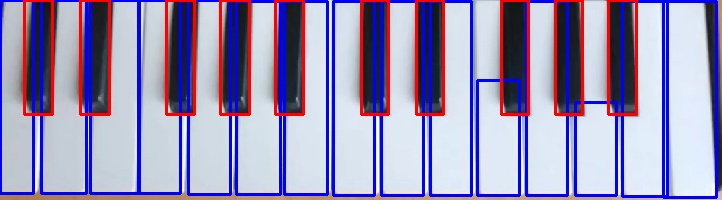
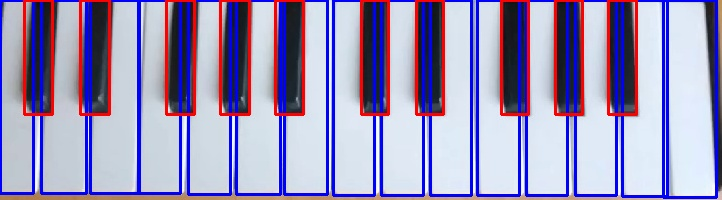
working?

Changed region(s): [[0.3047, 0.0, 1.0, 0.54]]

diff --git a/src/hand_tracking.py b/src/hand_tracking.py
@@ -57,32 +57,50 @@ class HandTrack:
                                     new_image[row-i[0]].append(img[col][row])
 
                             new_image = np.array(new_image)
-                            gray_image1 = cv2.cvtColor(black_imgs[index], cv2.COLOR_BGR2GRAY)
-                            gray_image2 = cv2.cvtColor(new_image, cv2.COLOR_BGR2GRAY)
-                            ssim,ssimImg = structural_similarity(gray_image1,gray_image2, full=True)
-                            print(ssim)
-                            cv2.imshow('ssim',ssimImg)
-                            cv2.waitKey(0)
+                            y = finger[1]-i[1]
+                            new_image = new_image[:,:y]
+                            new_image = new_image[:,:y]
+                            new_key_img = black_imgs[index][:,:y]
+                            gray_image1 = cv2.cvtColor(new_image, cv2.COLOR_BGR2GRAY)
+                            gray_image2 = cv2.cvtColor(new_key_img, cv2.COLOR_BGR2GRAY)
+                            x1,y1 = gray_image1.shape
+                            x2,y2 = gray_image2.shape
+                            ssim = None
+                            if x1 >= 7 and x2 >= 7 and y1 >=7 and y2 >=7:
+                                ssim,_ = structural_similarity(gray_image1,gray_image2, full=True)
+                                key.append(('b',i))
+                            #print(f"black key number {index}: {ssim}")
                         index +=1
-                    # index = 0
-                    # for i in white_keys:
-                    #     if ( finger[0]> i[0] and finger[0] < i[0]+i[2] and finger[1] > i[1] and finger[1] < i[1]+i[3]):
-                    #         for row in range(0,i[2]):
-                    #             for col in range(0,i[3]):
-                    #                 if white_imgs[index][row][col].all() != img[i[2]+row][i[0]+col].all():
-                    #                     cv2.rectangle(img,(i[0],i[1]),(i[0]+i[2],i[1]+i[3]),(0,0,255),1)
-                    #                     key.append(("b",i))
-                    #                     print("white")
-                    #         #print(finger[2])
-                    #     index +=1
-                    #     # else :
-                    #     #     cv2.rectangle(img,(i[0],i[1]),(i[0]+i[2],i[1]+i[3]),(255,0,0),1)
+                    index = 0
+                    for i in white_keys[:]:
+                        if ( finger[0]> i[0] and finger[0] < i[0]+i[2] and finger[1] > i[1] and finger[1] < i[1]+i[3]):
+                            new_image = []
+                            for row in range(i[0],i[0]+i[2]):
+                                new_image.append([])
+                                for col in  range(i[1],i[1]+i[3]):
+                                    new_image[row-i[0]].append(img[col][row])
+
+                            new_image = np.array(new_image)
+                            y = finger[1]-i[1]
+                            new_image = new_image[:,:y]
+                            new_key_img = white_imgs[index][:,:y]
+                            gray_image1 = cv2.cvtColor(new_image, cv2.COLOR_BGR2GRAY)
+                            gray_image2 = cv2.cvtColor(new_key_img, cv2.COLOR_BGR2GRAY)
+                            x1,y1 = gray_image1.shape
+                            x2,y2 = gray_image2.shape
+                            ssim = None
+                            if x1 >= 7 and x2 >= 7 and y1 >=7 and y2 >=7:
+                                ssim,_ = structural_similarity(gray_image1,gray_image2, full=True)
+                                if ssim > 0.5:
+                                    key.append(('w',i))
+                            #print(f"white key number {index}: {ssim}")
+                        index +=1
                 
             #cv2.putText(img,str(int(fps)),(10,70),cv2.FONT_HERSHEY_PLAIN,3,(255,0,0),3)
 
             #print(keys1,keys2)
             # cv2.imshow("Image", img)
-            # cv2.waitKey(1)
+            # cv2.waitKey(0)
             successe, img = cap.read()
             if key != [] and key != last_key: keys.append(key)
             last_key = key

diff --git a/src/img_proc.py b/src/img_proc.py
@@ -57,6 +57,9 @@ class ImgProc:
         white_keys = []
         for contour in valid_contours:
             x, y, w, h = cv2.boundingRect(contour)
+            if y != 0:
+                h += y
+                y = 0
             white_keys.append((x,y,w,h)) 
             cv2.rectangle(img, (x, y), (x + w, y + h), (255, 0, 0), 2)
         
@@ -100,14 +103,6 @@ class ImgProc:
         for i in  points:
             if i < img_center[0]: left.append(i)
             else: right.append(i)
-
-        # for i in  left:
-        #     cv2.circle(img,(i,int(img_center[1]),),10,(255,0,0),1)
-
-        # for i in  right:
-        #     cv2.circle(img,(i,int(img_center[1]),),10,(0,255,0),1)
-
-        # cv2.circle(img,(int(img_center[0]),int(img_center[1]),),10,(0,0,255),1)
 
         left = left[len(left)-10:10]
         right = right[0:10]

diff --git a/src/main.py b/src/main.py
@@ -10,6 +10,7 @@ def main():
     black_keys, white_keys = ImgProc.fix_key_coords(black_keys,white_keys,shape)
     #print(black_keys)
     keys= HandTrack.handTrakc('video/piano_video.mp4',black_keys,white_keys,black_imgs, white_imgs)
+    print(keys)
     print(SheetMusic.getKeyNotes(black_keys,white_keys,keys))
 
 

diff --git a/src/sheet_music.py b/src/sheet_music.py
@@ -17,6 +17,5 @@ class SheetMusic:
                         if i[1] == white_keys[j]:
                             chord.append(white_notes[j])
                             break
-            #if chord != []: 
             sheet.append(chord)
         return sheet
